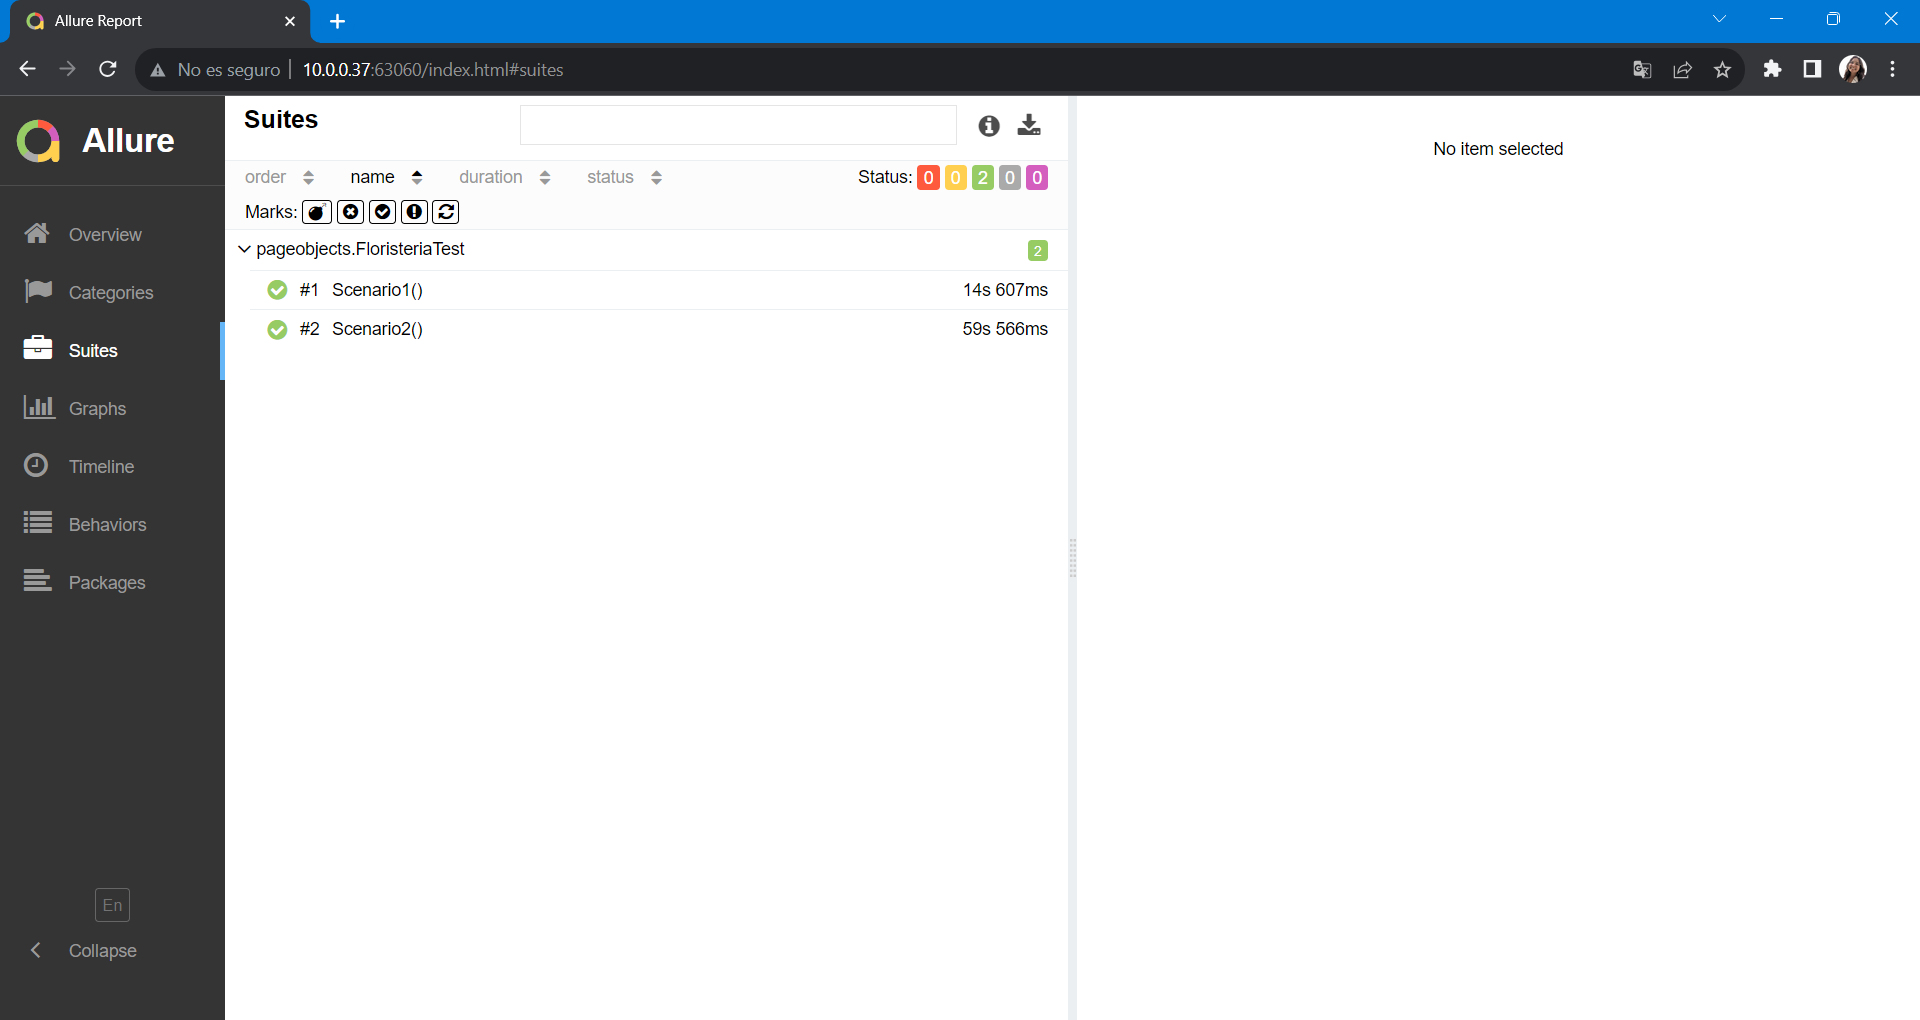
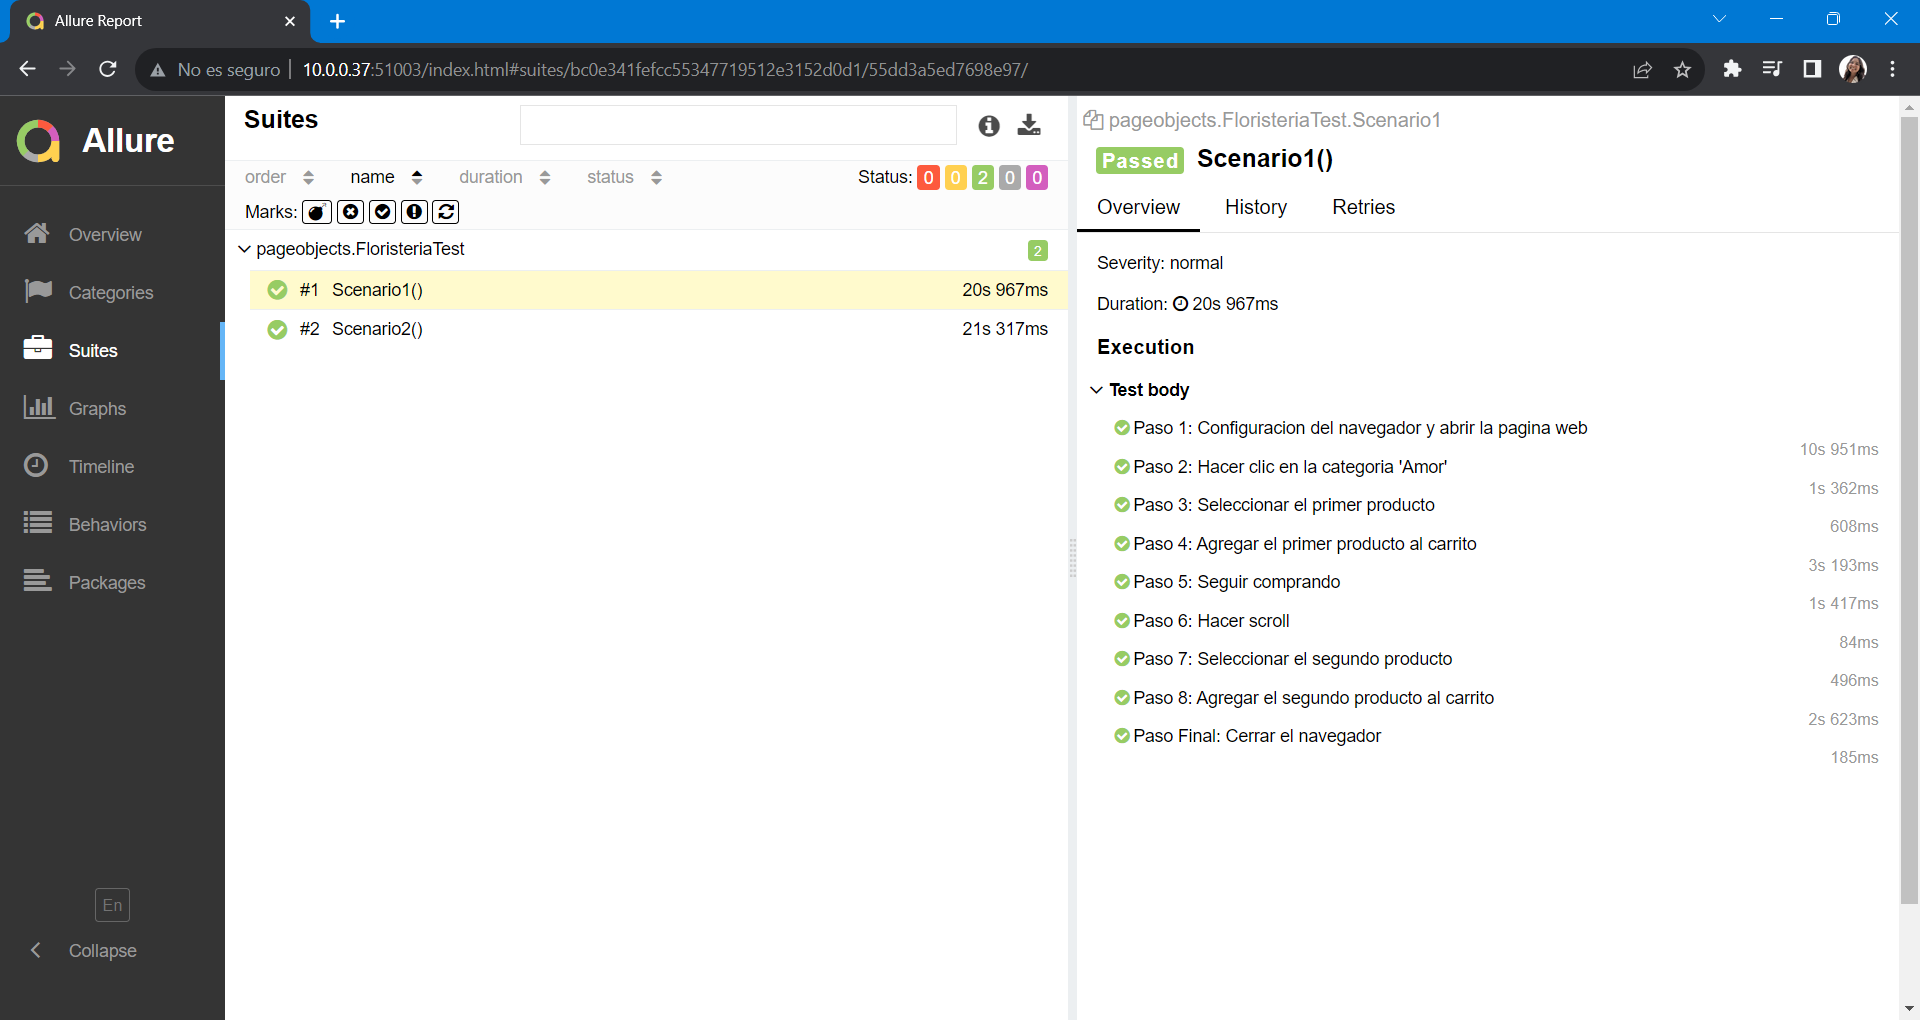
Pasos prueba tecnica

diff --git a/Template_Automatizacion_SQA/src/test/java/pageobjects/FloristeriaTest.java b/Template_Automatizacion_SQA/src/test/java/pageobjects/FloristeriaTest.java
@@ -1,37 +1,103 @@
 package pageobjects;
 
 import io.github.bonigarcia.wdm.WebDriverManager;
+import io.qameta.allure.Step;
 import org.junit.jupiter.api.Test;
 import org.openqa.selenium.*;
 import org.openqa.selenium.chrome.ChromeDriver;
-import java.time.Duration;
 
+import java.time.Duration;
 
 public class FloristeriaTest {
 
-    protected WebDriver driver;
+    public WebDriver driver;
 
-   @Test
-    public void Scenario1(){
-
-       WebDriverManager.chromedriver().setup();
-       driver = new ChromeDriver();
-
-       driver.get("https://www.floristeriamundoflor.com/");
-       driver.manage().window().maximize();
-       driver.manage().timeouts().implicitlyWait(Duration.ofSeconds(5L));
-       driver.quit();
-    }
-
-    @Test
-    public void Scenario2(){
-
+    @Step("Paso 1: Configuracion del navegador y abrir la pagina web")
+    public void setupAndOpenWebsite() {
         WebDriverManager.chromedriver().setup();
         driver = new ChromeDriver();
-
         driver.get("https://www.floristeriamundoflor.com/");
         driver.manage().window().maximize();
         driver.manage().timeouts().implicitlyWait(Duration.ofSeconds(5L));
+    }
+
+    @Step("Paso 2: Hacer clic en la categoria 'Amor'")
+    public void clickLoveCategory() {
+        driver.findElement(By.xpath("//li[@id='menu-item-2806']/a[text()='Amor']")).click();
+    }
+
+    @Step("Paso 3: Seleccionar el primer producto")
+    public void selectFirstProduct() {
+        driver.findElement(By.xpath("//figure[@class='image']/a")).click();
+    }
+
+    @Step("Paso 4: Agregar el primer producto al carrito")
+    public void addToCartFirstProduct() {
+        driver.findElement(By.xpath("//button[@name='add-to-cart']")).click();
+    }
+
+    @Step("Paso 5: Seguir comprando")
+    public void continueShopping() {
+        driver.findElement(By.xpath("//a[@class='button wc-forward']")).click();
+    }
+
+    @Step("Paso 6: Hacer scroll")
+    public void scrollDown() {
+        JavascriptExecutor js = (JavascriptExecutor) driver;
+        js.executeScript("window.scrollBy(0, 700);");
+    }
+
+    @Step("Paso 7: Seleccionar el segundo producto")
+    public void selectSecondProduct() {
+        driver.findElement(By.xpath("//figure[@class='image']/a")).click();
+    }
+
+    @Step("Paso 8: Agregar el segundo producto al carrito")
+    public void addToCartSecondProduct() {
+        driver.findElement(By.xpath("//button[@name='add-to-cart']")).click();
+    }
+
+    @Step("Paso Final: Cerrar el navegador")
+    public void closeBrowser() {
         driver.quit();
+    }
+
+    @Test
+    public void Scenario1() {
+        FloristeriaTest test = new FloristeriaTest();
+        test.setupAndOpenWebsite();
+        test.clickLoveCategory();
+        test.selectFirstProduct();
+        test.addToCartFirstProduct();
+        test.continueShopping();
+        test.scrollDown();
+        test.selectSecondProduct();
+        test.addToCartSecondProduct();
+        test.closeBrowser();
+    }
+
+    @Step("Paso 2: Seleccionar la categoria 'Cumpleanios'")
+    private void selectBirthdayCategory() {
+        driver.findElement(By.xpath("//li[@id='menu-item-2799']/a[contains(text(),'Cumplea')]")).click();
+    }
+
+    @Step("Paso 9: Eliminar el primer producto del carrito")
+    private void removeFirstProductFromCart() {
+        driver.findElement(By.xpath("//td[@class='product-remove']/a")).click();
+    }
+
+    @Test
+    public void Scenario2() {
+        FloristeriaTest test = new FloristeriaTest();
+        test.setupAndOpenWebsite();
+        test.selectBirthdayCategory();
+        test.selectFirstProduct();
+        test.addToCartFirstProduct();
+        test.continueShopping();
+        test.scrollDown();
+        test.selectSecondProduct();
+        test.addToCartSecondProduct();
+        test.removeFirstProductFromCart();
+        test.closeBrowser();
     }
 }
